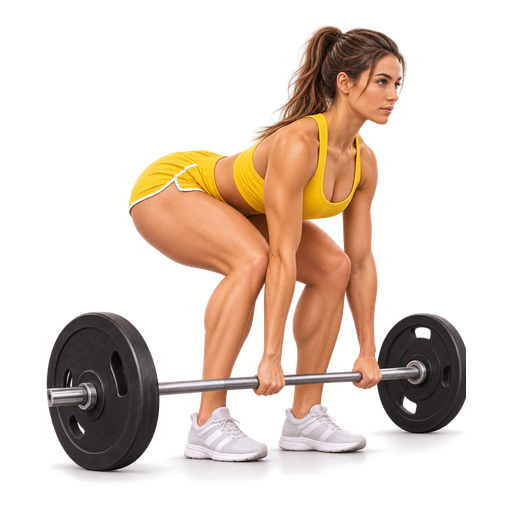
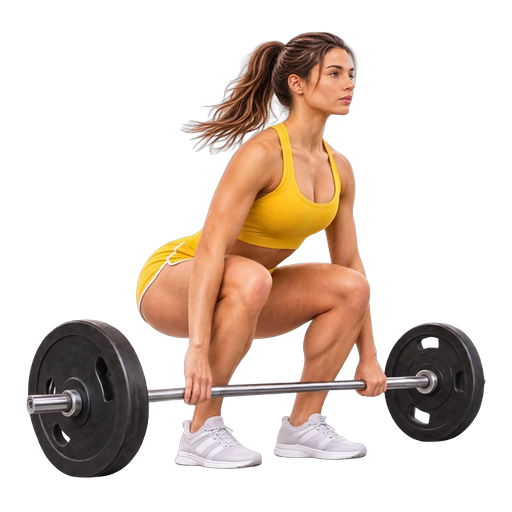
Version 1.7.76 - Icônes corrigées et complétées, « Extension triceps à la poulie » retiré
- Nouvelles icônes : Relevés de jambes suspendu, Burpees, Ski trainer, Vélo elliptique, Stair climber
- Icônes remplacées : Soulevé de terre, Rameur, Montées de genoux
- Fentes / Fentes marchées inversées ; icône du Développé incliné passée au Développé incliné haltères ; Rotation russe en icône générique
- Exercice 67 retiré : programmes, historique et dernière charge rattachés à « Extension triceps » (66)
- Nouveau test test_exercice_retire.py ; test_poly_1rm.py : 11 exercices de Bras

Claude-Session: https://claude.ai/code/session_01D2bERS7WBZgExNoVRodtwC

diff --git a/js/catalogue.js b/js/catalogue.js
@@ -46,8 +46,8 @@ const CATALOGUE = [
   {"id": 38, "name": "Shrugs barre", "group": "Dos", "mode": "weight", "sets": 3, "reps": "10–15", "rest": 90},
   {"id": 39, "name": "Développé couché", "group": "Pectoraux", "poly": true, "mode": "weight", "sets": 3, "reps": "6–10", "rest": 180, "icon": "icons/bench_press.png"},
   {"id": 40, "name": "Développé haltères", "group": "Pectoraux", "poly": true, "mode": "weight", "sets": 3, "reps": "8–12", "rest": 120, "icon": "icons/dumbbell_bench_press.png"},
-  {"id": 41, "name": "Développé incliné", "group": "Pectoraux", "poly": true, "mode": "weight", "sets": 3, "reps": "8–12", "rest": 120, "icon": "icons/incline_bench.png"},
-  {"id": 42, "name": "Développé incliné haltères", "group": "Pectoraux", "poly": true, "mode": "weight", "sets": 3, "reps": "8–12", "rest": 120},
+  {"id": 41, "name": "Développé incliné", "group": "Pectoraux", "poly": true, "mode": "weight", "sets": 3, "reps": "8–12", "rest": 120},
+  {"id": 42, "name": "Développé incliné haltères", "group": "Pectoraux", "poly": true, "mode": "weight", "sets": 3, "reps": "8–12", "rest": 120, "icon": "icons/incline_dumbbell_press.png"},
   {"id": 43, "name": "Développé décliné", "group": "Pectoraux", "poly": true, "mode": "weight", "sets": 3, "reps": "8–12", "rest": 120},
   {"id": 44, "name": "Dips", "group": "Pectoraux", "poly": true, "mode": "bw", "sets": 3, "reps": "8–12", "rest": 120, "icon": "icons/dips.png"},
   {"id": 45, "name": "Pompes", "group": "Pectoraux", "poly": true, "mode": "reps", "sets": 3, "reps": "8–15", "rest": 90, "icon": "icons/push_ups.png"},
@@ -71,26 +71,25 @@ const CATALOGUE = [
   {"id": 64, "name": "Curl poulie", "group": "Bras", "mode": "weight", "sets": 3, "reps": "10–15", "rest": 90},
   {"id": 65, "name": "Curl concentration", "group": "Bras", "mode": "weight", "sets": 3, "reps": "10–15", "rest": 90, "icon": "icons/concentration_curl.png"},
   {"id": 66, "name": "Extension triceps", "group": "Bras", "mode": "weight", "sets": 3, "reps": "10–15", "rest": 90, "icon": "icons/triceps_extension.png"},
-  {"id": 67, "name": "Extension triceps à la poulie", "group": "Bras", "mode": "weight", "sets": 3, "reps": "10–15", "rest": 90, "icon": "icons/triceps_pushdown.png"},
   {"id": 68, "name": "Extension triceps haltère", "group": "Bras", "mode": "weight", "sets": 3, "reps": "10–15", "rest": 90},
   {"id": 69, "name": "Extension triceps couché", "group": "Bras", "mode": "weight", "sets": 3, "reps": "10–15", "rest": 90},
   {"id": 70, "name": "Extension triceps en arrière", "group": "Bras", "mode": "weight", "sets": 3, "reps": "12–15", "rest": 90, "icon": "icons/triceps_kickback.png"},
   {"id": 71, "name": "Dips triceps", "group": "Bras", "poly": true, "mode": "bw", "sets": 3, "reps": "8–12", "rest": 120},
   {"id": 72, "name": "Relevé de buste", "group": "Abdos", "mode": "reps", "sets": 3, "reps": "15–20", "rest": 60, "icon": "icons/crunch.png"},
   {"id": 73, "name": "Crunch à la poulie", "group": "Abdos", "mode": "weight", "sets": 3, "reps": "10–15", "rest": 90},
-  {"id": 74, "name": "Relevés de jambes suspendu", "group": "Abdos", "mode": "bw", "sets": 3, "reps": "8–15", "rest": 90},
+  {"id": 74, "name": "Relevés de jambes suspendu", "group": "Abdos", "mode": "bw", "sets": 3, "reps": "8–15", "rest": 90, "icon": "icons/hanging_leg_raises.png"},
   {"id": 75, "name": "Relevés de jambes au sol", "group": "Abdos", "mode": "reps", "sets": 3, "reps": "15–20", "rest": 60, "icon": "icons/lying_leg_raises.png"},
   {"id": 76, "name": "Planche", "group": "Abdos", "mode": "time", "sets": 3, "reps": "20–45 s", "rest": 60, "icon": "icons/plank.png"},
   {"id": 77, "name": "Gainage latéral", "group": "Abdos", "mode": "time", "sets": 3, "reps": "20–45 s", "rest": 60},
-  {"id": 78, "name": "Rotation russe", "group": "Abdos", "mode": "reps", "sets": 3, "reps": "15–20", "rest": 60, "icon": "icons/russian_twist.png"},
+  {"id": 78, "name": "Rotation russe", "group": "Abdos", "mode": "reps", "sets": 3, "reps": "15–20", "rest": 60},
   {"id": 79, "name": "Ab wheel", "group": "Abdos", "mode": "reps", "sets": 3, "reps": "8–15", "rest": 90},
   {"id": 24, "name": "Corde à sauter", "group": "Cardio", "mode": "time", "sets": 1, "reps": "", "rest": 0, "cardio": true, "icon": "icons/jump_rope.png"},
   {"id": 80, "name": "Rameur", "group": "Cardio", "mode": "dist", "sets": 1, "reps": "", "rest": 0, "cardio": true, "unit": "pace500", "icon": "icons/rower.png"},
   {"id": 81, "name": "Vélo", "group": "Cardio", "mode": "dist", "sets": 1, "reps": "", "rest": 0, "cardio": true, "unit": "kmh", "icon": "icons/stationary_bike.png"},
   {"id": 82, "name": "Tapis de course", "group": "Cardio", "mode": "dist", "sets": 1, "reps": "", "rest": 0, "cardio": true, "unit": "pacekm"},
-  {"id": 85, "name": "Ski trainer", "group": "Cardio", "mode": "dist", "sets": 1, "reps": "", "rest": 0, "cardio": true, "unit": "pace500"},
-  {"id": 86, "name": "Vélo elliptique", "group": "Cardio", "mode": "dist", "sets": 1, "reps": "", "rest": 0, "cardio": true, "unit": "kmh"},
-  {"id": 87, "name": "Stair climber", "group": "Cardio", "mode": "floors", "sets": 1, "reps": "", "rest": 0, "cardio": true, "unit": "floorsmin"},
+  {"id": 85, "name": "Ski trainer", "group": "Cardio", "mode": "dist", "sets": 1, "reps": "", "rest": 0, "cardio": true, "unit": "pace500", "icon": "icons/ski_erg.png"},
+  {"id": 86, "name": "Vélo elliptique", "group": "Cardio", "mode": "dist", "sets": 1, "reps": "", "rest": 0, "cardio": true, "unit": "kmh", "icon": "icons/elliptical.png"},
+  {"id": 87, "name": "Stair climber", "group": "Cardio", "mode": "floors", "sets": 1, "reps": "", "rest": 0, "cardio": true, "unit": "floorsmin", "icon": "icons/stair_climber.png"},
   {"id": 83, "name": "Montées de genoux", "group": "Cardio", "mode": "reps", "sets": 3, "reps": "20–30", "rest": 60, "icon": "icons/mountain_climbers.png"},
-  {"id": 84, "name": "Burpees", "group": "Cardio", "mode": "reps", "sets": 3, "reps": "8–15", "rest": 90}
+  {"id": 84, "name": "Burpees", "group": "Cardio", "mode": "reps", "sets": 3, "reps": "8–15", "rest": 90, "icon": "icons/burpees.png"}
 ];

diff --git a/app.js b/app.js
@@ -35,8 +35,11 @@ const EXERCISE_ALIASES = {
   "Leg Extension": "Leg extension",
   "Leg Curl": "Leg curl",
   "Oiseau (Arrière d'épaule)": "Oiseau",
-  "Mollets / Finition": "Mollets"
+  "Mollets / Finition": "Mollets",
+  "Extension triceps à la poulie": "Extension triceps" // 1.7.76 : exercice retiré, déjà couvert par « Extension triceps »
 };
+// Identifiants retirés du catalogue -> identifiant qui les remplace (1.7.76 : 67 « Extension triceps à la poulie » -> 66)
+const EXERCISE_ID_ALIASES = { 67: 66 };
 const CATALOGUE_BY_ID = {};
 const CATALOGUE_BY_NAME = {};
 (typeof CATALOGUE !== 'undefined' ? CATALOGUE : []).forEach(e => { CATALOGUE_BY_ID[e.id] = e; CATALOGUE_BY_NAME[e.name] = e; });
@@ -417,6 +420,7 @@ function canonicalExerciseName(name) {
 
 // Fiche d'un exercice (par identifiant ou par nom) ; un nom hors catalogue reçoit des réglages neutres
 function exInfo(ref) {
+  if (typeof ref === 'number' && EXERCISE_ID_ALIASES[ref]) ref = EXERCISE_ID_ALIASES[ref];
   if (typeof ref === 'number' && CATALOGUE_BY_ID[ref]) return CATALOGUE_BY_ID[ref];
   const name = canonicalExerciseName(String(ref == null ? '' : ref));
   return CATALOGUE_BY_NAME[name] || { id: null, name, group: '', mode: 'weight', sets: 3, reps: '8–12', rest: REST_DURATION };
@@ -586,8 +590,28 @@ function migrateState(s) {
 }
 
 // Programmes cohérents : un seul actif, rotation valide, séances libres avec une seule séance
+// Exercices retirés du catalogue (1.7.76) : programmes, historique et dernières charges passent à l'exercice
+// qui les remplace (« Extension triceps à la poulie » -> « Extension triceps »). Sans effet s'il n'y a rien à changer.
+function mergeRemovedExercises() {
+  if (!state) return;
+  (state.programs || []).forEach(p => (p.sessions || []).forEach(se => (se.exercises || []).forEach(e => {
+    if (EXERCISE_ID_ALIASES[e.exId]) e.exId = EXERCISE_ID_ALIASES[e.exId];
+  })));
+  (state.history || []).forEach(h => (h.exercises || []).forEach(ex => {
+    const name = canonicalExerciseName(ex.name);
+    if (name !== ex.name) ex.name = name;
+    if (EXERCISE_ID_ALIASES[ex.exId]) ex.exId = EXERCISE_ID_ALIASES[ex.exId];
+  }));
+  const lw = state.lastWeights;
+  if (lw && typeof lw === 'object') Object.keys(lw).forEach(k => {
+    const name = canonicalExerciseName(k);
+    if (name !== k) { if (lw[name] === undefined) lw[name] = lw[k]; delete lw[k]; }
+  });
+}
+
 function normalizePrograms() {
   if (!state) return;
+  mergeRemovedExercises();
   if (!Array.isArray(state.programs)) state.programs = [];
   if (!state.deload || typeof state.deload !== 'object') state.deload = { shift: 0, postponedAt: null };
   let seenActive = false;

diff --git a/sw.js b/sw.js
@@ -2,7 +2,7 @@
 // APP_VERSION doit être incrémenté à chaque release (en même temps que
 // manifest.json) : le navigateur ne réinstalle le service worker que si
 // le contenu de ce fichier change.
-const APP_VERSION = '1.7.75';
+const APP_VERSION = '1.7.76';
 // 1.7.64 (co-auteur : Claude) : production (…/suivi-fitness/) et test (…/suivi-fitness/dev/) sont sur le même
 // domaine et partagent le stockage des caches : chaque version nomme ses caches d'après son dossier et ne
 // supprime que les siens (plus les anciens caches sans dossier, d'avant la 1.7.64).
@@ -74,7 +74,7 @@ const ASSETS = [
   './icons/deadlift.png',
   './icons/dips.png',
   './icons/dumbbell_row.png',
-  './icons/incline_bench.png',
+  './icons/incline_dumbbell_press.png',
   './icons/lat_pulldown.png',
   './icons/lateral_raise.png',
   './icons/leg_curl.png',
@@ -87,6 +87,11 @@ const ASSETS = [
   './icons/seated_row.png',
   './icons/triceps_extension.png',
   './icons/walking_lunge.png',
+  './icons/hanging_leg_raises.png',
+  './icons/burpees.png',
+  './icons/ski_erg.png',
+  './icons/elliptical.png',
+  './icons/stair_climber.png',
   './icons/barbell_row.png',
   './icons/barbell_squat.png',
   './icons/bulgarian_split_squat.png',
@@ -110,7 +115,6 @@ const ASSETS = [
   './icons/plank.png',
   './icons/push_ups.png',
   './icons/romanian_deadlift.png',
-  './icons/russian_twist.png',
   './icons/seated_calf_raise.png',
   './icons/seated_dumbbell_press.png',
   './icons/seated_leg_curl.png',
@@ -118,8 +122,7 @@ const ASSETS = [
   './icons/stationary_bike.png',
   './icons/step_up.png',
   './icons/stiff_leg_deadlift.png',
-  './icons/triceps_kickback.png',
-  './icons/triceps_pushdown.png'
+  './icons/triceps_kickback.png'
 ];
 
 self.addEventListener('install', (event) => {

diff --git a/tests/test_exercice_retire.py b/tests/test_exercice_retire.py
@@ -1,0 +1,52 @@
+"""Exercice retiré du catalogue (1.7.76) : « Extension triceps à la poulie » (n° 67) n'est plus proposé ; un programme,
+un historique et une dernière charge qui l'utilisaient passent à « Extension triceps » (n° 66) au chargement ;
+toutes les icônes du catalogue existent et sont dans le cache du service worker."""
+import json, re, sys
+from harness import Srv, newpage, sync_playwright, REPO, DATA
+
+res = []
+
+
+def ok(n, c, extra=''):
+    res.append(bool(c)); print(('OK   ' if c else 'FAIL ') + n, '' if c else str(extra)[:200])
+
+
+cat = (REPO / 'js' / 'catalogue.js').read_text(encoding='utf-8')
+sw = (REPO / 'sw.js').read_text(encoding='utf-8')
+icons = re.findall(r'"icon": "(icons/[^"]+)"', cat)
+ok('catalogue : plus d\'exercice n° 67', '"id": 67,' not in cat)
+ok('icônes du catalogue : fichiers présents', all((REPO / i).exists() for i in icons), [i for i in icons if not (REPO / i).exists()])
+ok('icônes du catalogue : toutes dans le cache du service worker', all("'./" + i + "'" in sw for i in icons), [i for i in icons if "'./" + i + "'" not in sw])
+ok('cache du service worker : aucune icône disparue', all((REPO / f).exists() for f in re.findall(r"'\./(icons/[^']+)'", sw)))
+
+with Srv() as url, sync_playwright() as p:
+    br = p.chromium.launch()
+    ctx, pg, errs = newpage(br)
+    pg.goto(url + 'index.html'); pg.wait_for_timeout(800)
+    # État d'avant : un programme et une séance avec l'exercice 67, une dernière charge à son nom
+    pg.evaluate("""(()=>{const s=JSON.parse(localStorage.getItem('h49_state'));
+      const p=s.programs.find(x=>x.status==='active')||s.programs[0];
+      p.sessions[0].exercises.push({exId:67,sets:3});
+      s.history.push({date:'2026-11-10T10:00:00.000Z',programId:p.id,programName:p.name,kind:p.kind,sessionKey:p.sessions[0].key,sessionName:p.sessions[0].name,type:p.sessions[0].key,
+        exercises:[{name:'Extension triceps à la poulie',exId:67,sets:[{weight:20,reps:12}]}]});
+      s.lastWeights=Object.assign(s.lastWeights||{},{'Extension triceps à la poulie':20});
+      localStorage.setItem('h49_state',JSON.stringify(s))})()""")
+    pg.reload(); pg.wait_for_timeout(900)
+    st = pg.evaluate("JSON.parse(JSON.stringify(state))")
+    ids = [e['exId'] for p_ in st['programs'] for s_ in p_['sessions'] for e in s_['exercises']]
+    ok('programme : n° 67 remplacé par 66', 67 not in ids and 66 in ids, ids)
+    names = [ex['name'] for h in st['history'] for ex in h['exercises']]
+    ok('historique : séance rattachée à « Extension triceps »', 'Extension triceps à la poulie' not in names and 'Extension triceps' in names)
+    ok('historique : identifiant 66', all(ex.get('exId') != 67 for h in st['history'] for ex in h['exercises']))
+    ok('dernière charge reprise sous « Extension triceps »', 'Extension triceps à la poulie' not in st['lastWeights'] and 'Extension triceps' in st['lastWeights'], st['lastWeights'])
+    ok('exInfo(67) renvoie « Extension triceps »', pg.evaluate("exInfo(67).name") == 'Extension triceps')
+    pg.click('#add-program-btn'); pg.wait_for_timeout(200); pg.click('.choose-card.libre'); pg.wait_for_timeout(200)
+    pg.click('.ed-add'); pg.wait_for_timeout(250)
+    ok('« Ajouter un exercice » : plus d\'« Extension triceps à la poulie »', pg.locator('.add-item[data-id="67"]').count() == 0 and 'Extension triceps à la poulie' not in pg.inner_text('#add-list'))
+    broken = pg.evaluate("[...document.images].filter(i=>i.complete&&i.naturalWidth===0&&i.src).map(i=>i.src)")
+    ok('aucune image cassée', not broken, broken)
+    ok('aucune erreur JavaScript', not errs, errs)
+    br.close()
+
+print(f"{sum(res)} / {len(res)} contrôles OK")
+sys.exit(0 if all(res) else 1)

diff --git a/tests/run_tests.py b/tests/run_tests.py
@@ -15,13 +15,13 @@ from concurrent.futures import ThreadPoolExecutor
 from pathlib import Path
 
 HERE = Path(__file__).resolve().parent
-TESTS = ['test_validation.py', 'test_rameur.py', 'test_drive_reset.py', 'test_progression_jours.py', 'test_supprimer_seance.py', 'test_annuler_seance.py', 'test_brouillon.py', 'test_poids_brouillon.py', 'test_chrono.py', 'test_mise_a_jour.py', 'test_reglages.py', 'test_drive_compte.py', 'test_drive_sauvegarde.py', 'test_drive_versions.py', 'test_drive_installee.py', 'test_drive_android.py', 'test_drive_reconnexion.py', 'test_programmes.py', 'test_editeur_deplacer.py', 'test_fond_ecran.py', 'test_invitation.py', 'test_accueil.py', 'test_fin_seance.py', 'test_editeur_incomplet.py', 'test_fenetres.py', 'test_pause_actif.py', 'test_mise_en_page.py', 'test_poly_1rm.py', 'test_poids_du_corps.py', 'test_titre_seance.py', 'test_pastille_1x.py', 'test_contraste.py', 'test_presentation.py', 'test_bilan.py', 'test_partage.py', 'test_choix_espace.py', 'test_doublons.py', 'test_sauvegarde_fichier.py', 'test_prod_test.py', 'test_trophees.py', 'test_ecart_memoire.py', 'test_marges_doublees.py', 'test_alignement_titres.py']
+TESTS = ['test_validation.py', 'test_rameur.py', 'test_drive_reset.py', 'test_progression_jours.py', 'test_supprimer_seance.py', 'test_annuler_seance.py', 'test_brouillon.py', 'test_poids_brouillon.py', 'test_chrono.py', 'test_mise_a_jour.py', 'test_reglages.py', 'test_drive_compte.py', 'test_drive_sauvegarde.py', 'test_drive_versions.py', 'test_drive_installee.py', 'test_drive_android.py', 'test_drive_reconnexion.py', 'test_programmes.py', 'test_editeur_deplacer.py', 'test_fond_ecran.py', 'test_invitation.py', 'test_accueil.py', 'test_fin_seance.py', 'test_editeur_incomplet.py', 'test_fenetres.py', 'test_pause_actif.py', 'test_mise_en_page.py', 'test_poly_1rm.py', 'test_poids_du_corps.py', 'test_titre_seance.py', 'test_pastille_1x.py', 'test_contraste.py', 'test_presentation.py', 'test_bilan.py', 'test_partage.py', 'test_choix_espace.py', 'test_doublons.py', 'test_sauvegarde_fichier.py', 'test_prod_test.py', 'test_trophees.py', 'test_ecart_memoire.py', 'test_marges_doublees.py', 'test_alignement_titres.py', 'test_exercice_retire.py']
 
 # Un test peut appartenir à plusieurs groupes.
 GROUPES = {
     'seance': ['test_alignement_titres.py', 'test_validation.py', 'test_rameur.py', 'test_annuler_seance.py', 'test_brouillon.py', 'test_poids_brouillon.py',
                'test_chrono.py', 'test_fin_seance.py', 'test_titre_seance.py', 'test_poids_du_corps.py', 'test_doublons.py'],
-    'programmes': ['test_ecart_memoire.py', 'test_marges_doublees.py', 'test_partage.py', 'test_bilan.py', 'test_programmes.py', 'test_editeur_deplacer.py', 'test_editeur_incomplet.py', 'test_pause_actif.py',
+    'programmes': ['test_exercice_retire.py', 'test_ecart_memoire.py', 'test_marges_doublees.py', 'test_partage.py', 'test_bilan.py', 'test_programmes.py', 'test_editeur_deplacer.py', 'test_editeur_incomplet.py', 'test_pause_actif.py',
                    'test_accueil.py', 'test_pastille_1x.py', 'test_doublons.py'],
     'progression': ['test_progression_jours.py', 'test_poly_1rm.py', 'test_poids_du_corps.py', 'test_pastille_1x.py', 'test_bilan.py', 'test_trophees.py'],
     'historique': ['test_supprimer_seance.py', 'test_progression_jours.py', 'test_sauvegarde_fichier.py'],

diff --git a/tests/test_poly_1rm.py b/tests/test_poly_1rm.py
@@ -48,7 +48,7 @@ with Srv() as url, sync_playwright() as p:
         ok(tag + "volet : rien ne déborde", ov['docW'] <= ov['vw'] and not ov['out'], ov)
         if SHOTS: pg.screenshot(path=f'/tmp/claude-0/poly_{w}_{theme}.png')
         pg.click('.add-chips .filter-btn[data-f="Bras"]'); pg.wait_for_timeout(150)
-        ok(tag + "les autres puces marchent toujours (Bras : 12)", pg.locator('#add-list .add-item').count() == 12)
+        ok(tag + "les autres puces marchent toujours (Bras : 11 depuis la 1.7.76)", pg.locator("#add-list .add-item").count() == 11)
         pg.evaluate("cancelAddExercise()"); pg.wait_for_timeout(200)
 
         # --- 1RM estimé

diff --git a/CHANGELOG.md b/CHANGELOG.md
@@ -7,6 +7,17 @@ et ce projet respecte [Semantic Versioning](https://semver.org/spec/v2.0.0.html)
 
 ---
 
+## [1.7.76] - 2026-11-14
+### 🖼 Icônes corrigées et complétées, « Extension triceps à la poulie » retiré (co-auteur : Claude)
+- **Nouvelles icônes** : Relevés de jambes suspendu, Burpees, Ski trainer, Vélo elliptique et Stair climber (recadrés sur les jambes).
+- **Icônes remplacées** : Soulevé de terre (photo « SDT classique »), Rameur (nouvelle photo, zoom moyen), Montées de genoux (nouvelle photo, zoom fort).
+- **Corrections** : icônes de Fentes et Fentes marchées inversées ; l'icône du Développé incliné, qui montrait des haltères, passe au **Développé incliné haltères** (fichier `incline_dumbbell_press.png`) — le Développé incliné à la barre reprend l'icône générique ; la Rotation russe reprend l'icône générique en attendant une photo avec les pieds visibles.
+- **« Extension triceps à la poulie » (n° 67) retiré du catalogue**, déjà couvert par « Extension triceps » : au chargement, programmes, historique et dernière charge qui l'utilisaient passent à « Extension triceps » (n° 66) ; un programme partagé qui le contient s'ouvre aussi sur « Extension triceps ».
+- Nouveau test `test_exercice_retire.py` (groupe `programmes`, 12 contrôles) : rattachement, liste d'ajout, icônes présentes et en cache. `test_poly_1rm.py` : 11 exercices de Bras.
+- `manifest.json` et `APP_VERSION` (`sw.js`) alignés sur 1.7.76.
+
+---
+
 ## [1.7.75] - 2026-11-14
 ### 🏷 Accueil sans titre, Historique indépendant des programmes (co-auteur : Claude)
 - **Accueil Programmes** : plus de titre « Programmes » (« MON CARNET DE SALLE » et le bouton + restent) ; l'accueil manuscrit remonte. « Actif » devient **« Programme actif »**, ou **« Séance libre active »** pour une séance libre.
